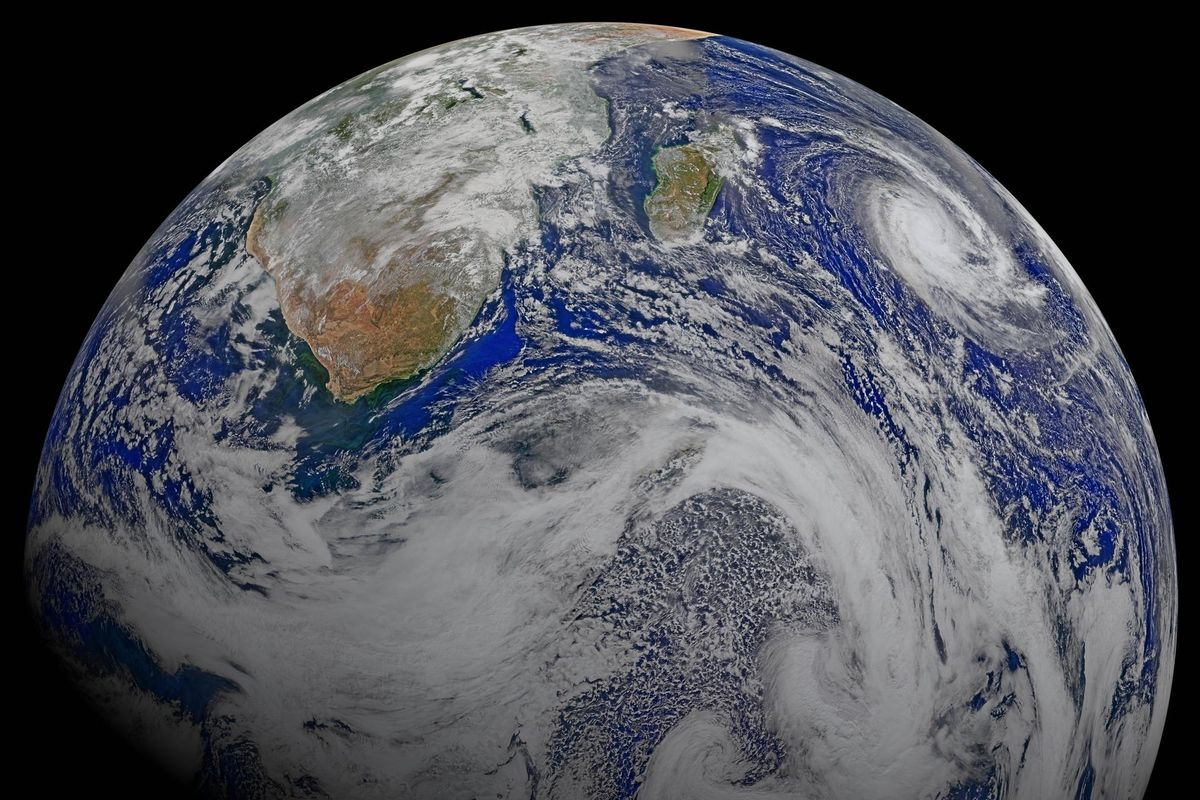
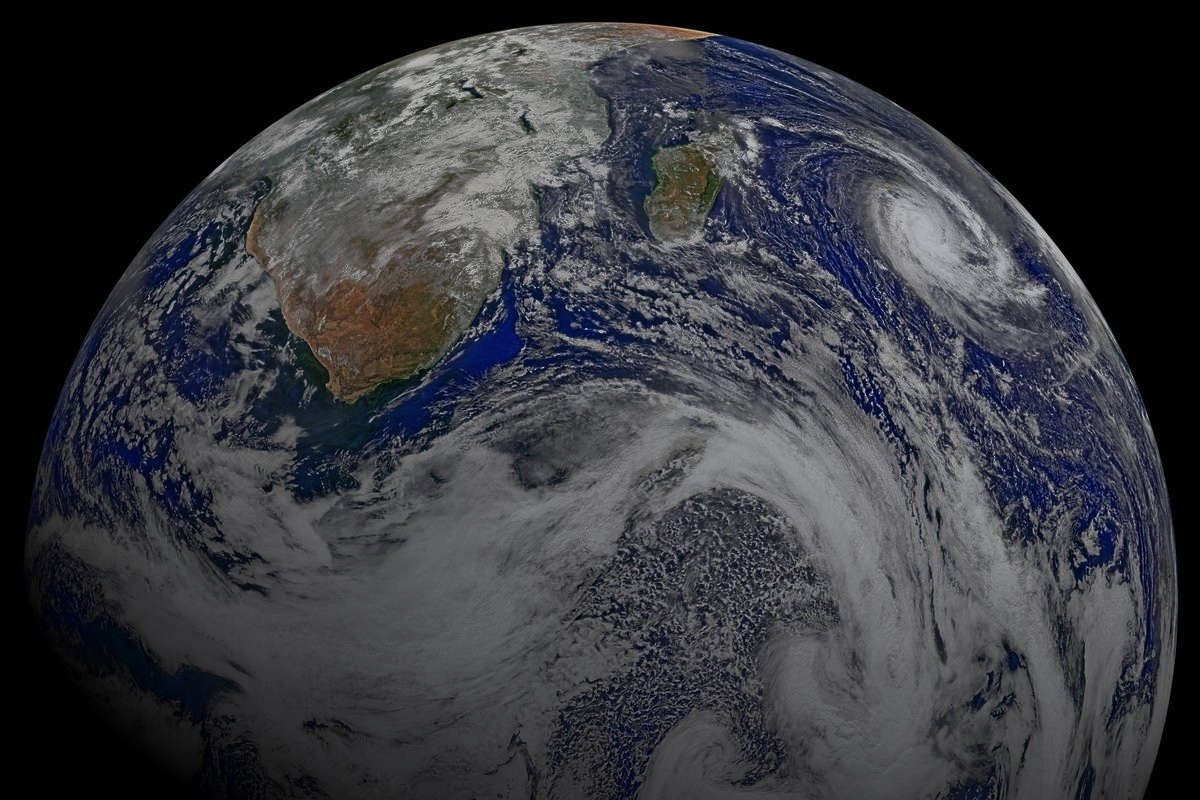
Edit homepage carousel

diff --git a/src/views/Home.vue b/src/views/Home.vue
@@ -1,21 +1,21 @@
 <template>
   <v-carousel>
-    <v-carousel-item v-bind:src="require('@/assets/homeBG.png')">
+    <v-carousel-item v-bind:src="require('@/assets/homeBG1.jpg')" class="dim">
       <v-layout align-center column>
-        <h2 class="display-6 font-weight-thin text-1">Collected garbage</h2>
-        <h1 class="display-5 font-weight-medium mb-3 text-2">1,400,323 tons</h1>
+        <h1 class="display-5 font-weight-medium mb-3 text-1" >Only 12.5% of e-waste is currently recycled.</h1>
       </v-layout>
       <v-layout justify-center align-center column class="button">
-        <v-btn color="success">Change now!</v-btn>
+        <v-btn color="success">Sign up</v-btn>
       </v-layout>
     </v-carousel-item>
     <v-carousel-item v-bind:src="require('@/assets/homeBG2.jpg')">
       <v-layout align-center column>
         <h1 class="display-5 font-weight-medium mb-3 text-3">
-          Today, the number one economic threat to humanity is our inability to
-          value nature.
+Recycling 1 million laptops saves the energy 
         </h1>
-        <h2 class="display-6 font-weight-medium text-4">- Johan Rockstrom</h2>
+        <h1 class="display-5 font-weight-medium mb-3 text-35">
+equivalent to the electricity used by 3,657 U.S. homes in a year.
+        </h1>
       </v-layout>
     </v-carousel-item>
     <v-carousel-item v-bind:src="require('@/assets/homeBG3.jpg')">
@@ -35,13 +35,12 @@ export default {};
 
 <style scoped>
 .text-1 {
-  color: black;
-  padding-top: 20px;
-  letter-spacing: 2px;
+  color:  white;
+  padding-top: 150px;
   margin-left: 30px;
 }
 .text-2 {
-  color: black;
+  color: white;
   letter-spacing: 5px;
   font-size: 56px;
   margin-left: 30px;
@@ -51,11 +50,14 @@ export default {};
   margin: 30px;
   color: white;
 }
+.text-35{
+  color:white;
+}
 .text-4 {
   color: white;
   margin: 30px;
 }
 .button {
-  padding-top: 160px;
+  padding-top: 20px;
 }
 </style>

diff --git a/src/router.js b/src/router.js
@@ -51,6 +51,12 @@ export default new Router({
       name: "product",
       component: () =>
         import(/* webpackChunkName: "product" */ "./views/Product.vue")
+    },
+    {
+      path: "/profile",
+      name: "profile",
+      component: () =>
+        import(/* webpackChunkName: "product" */ "./views/Profile.vue")
     }
   ]
 });

diff --git a/src/components/AppBar/SearchField.vue b/src/components/AppBar/SearchField.vue
@@ -1,10 +1,12 @@
 <template>
+  <v-flex xs12 sm6 md3>
     <v-text-field label="Solo" placeholder="Search" solo></v-text-field>
+  </v-flex>
 </template>
     
 <script>
 export default {
-  name: "SearchField",
+  name: "SearchField"
 };
 </script>
 
